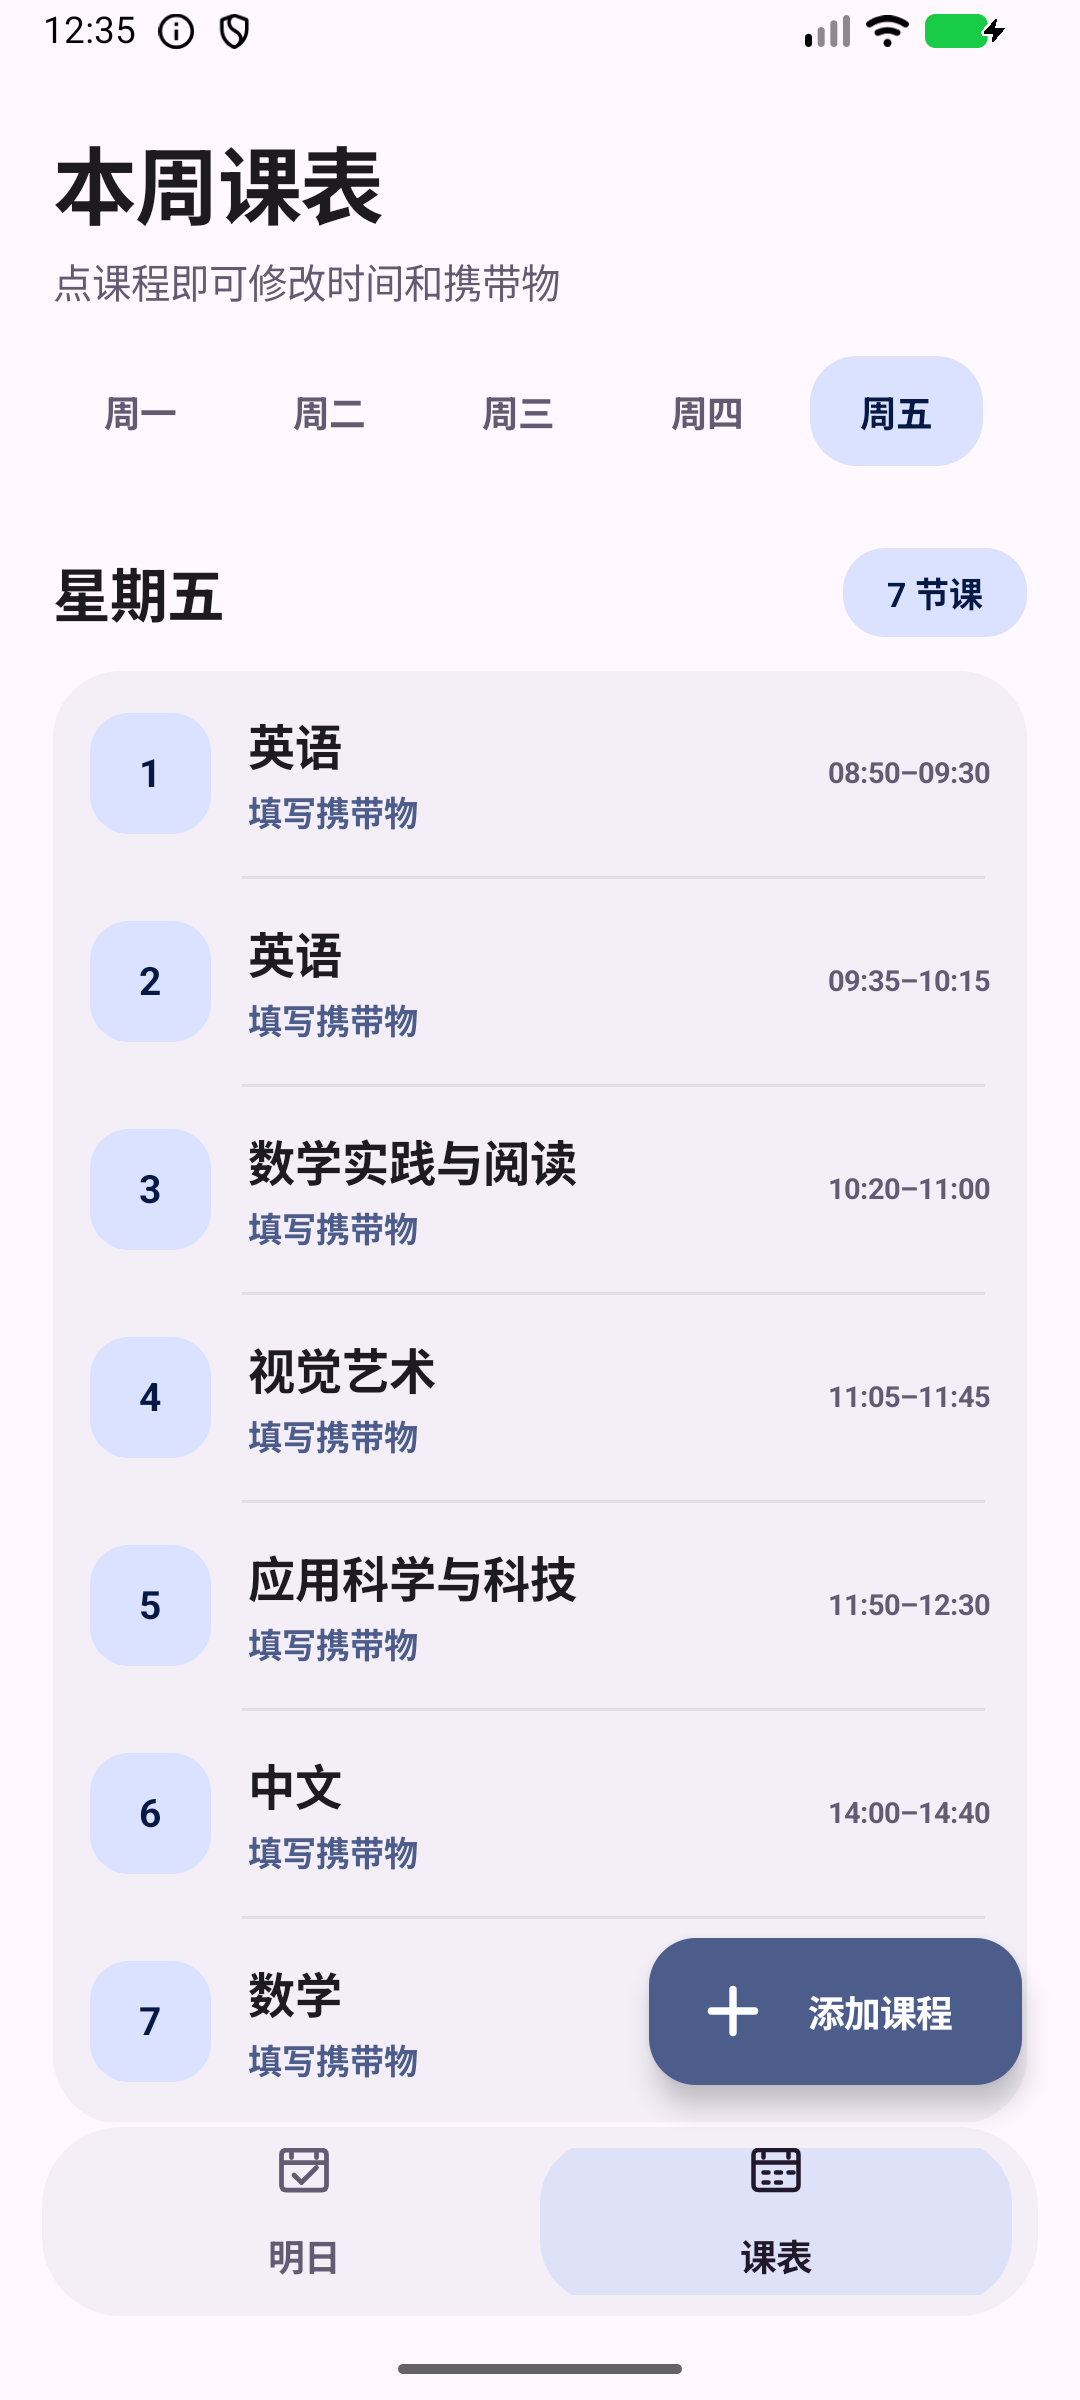
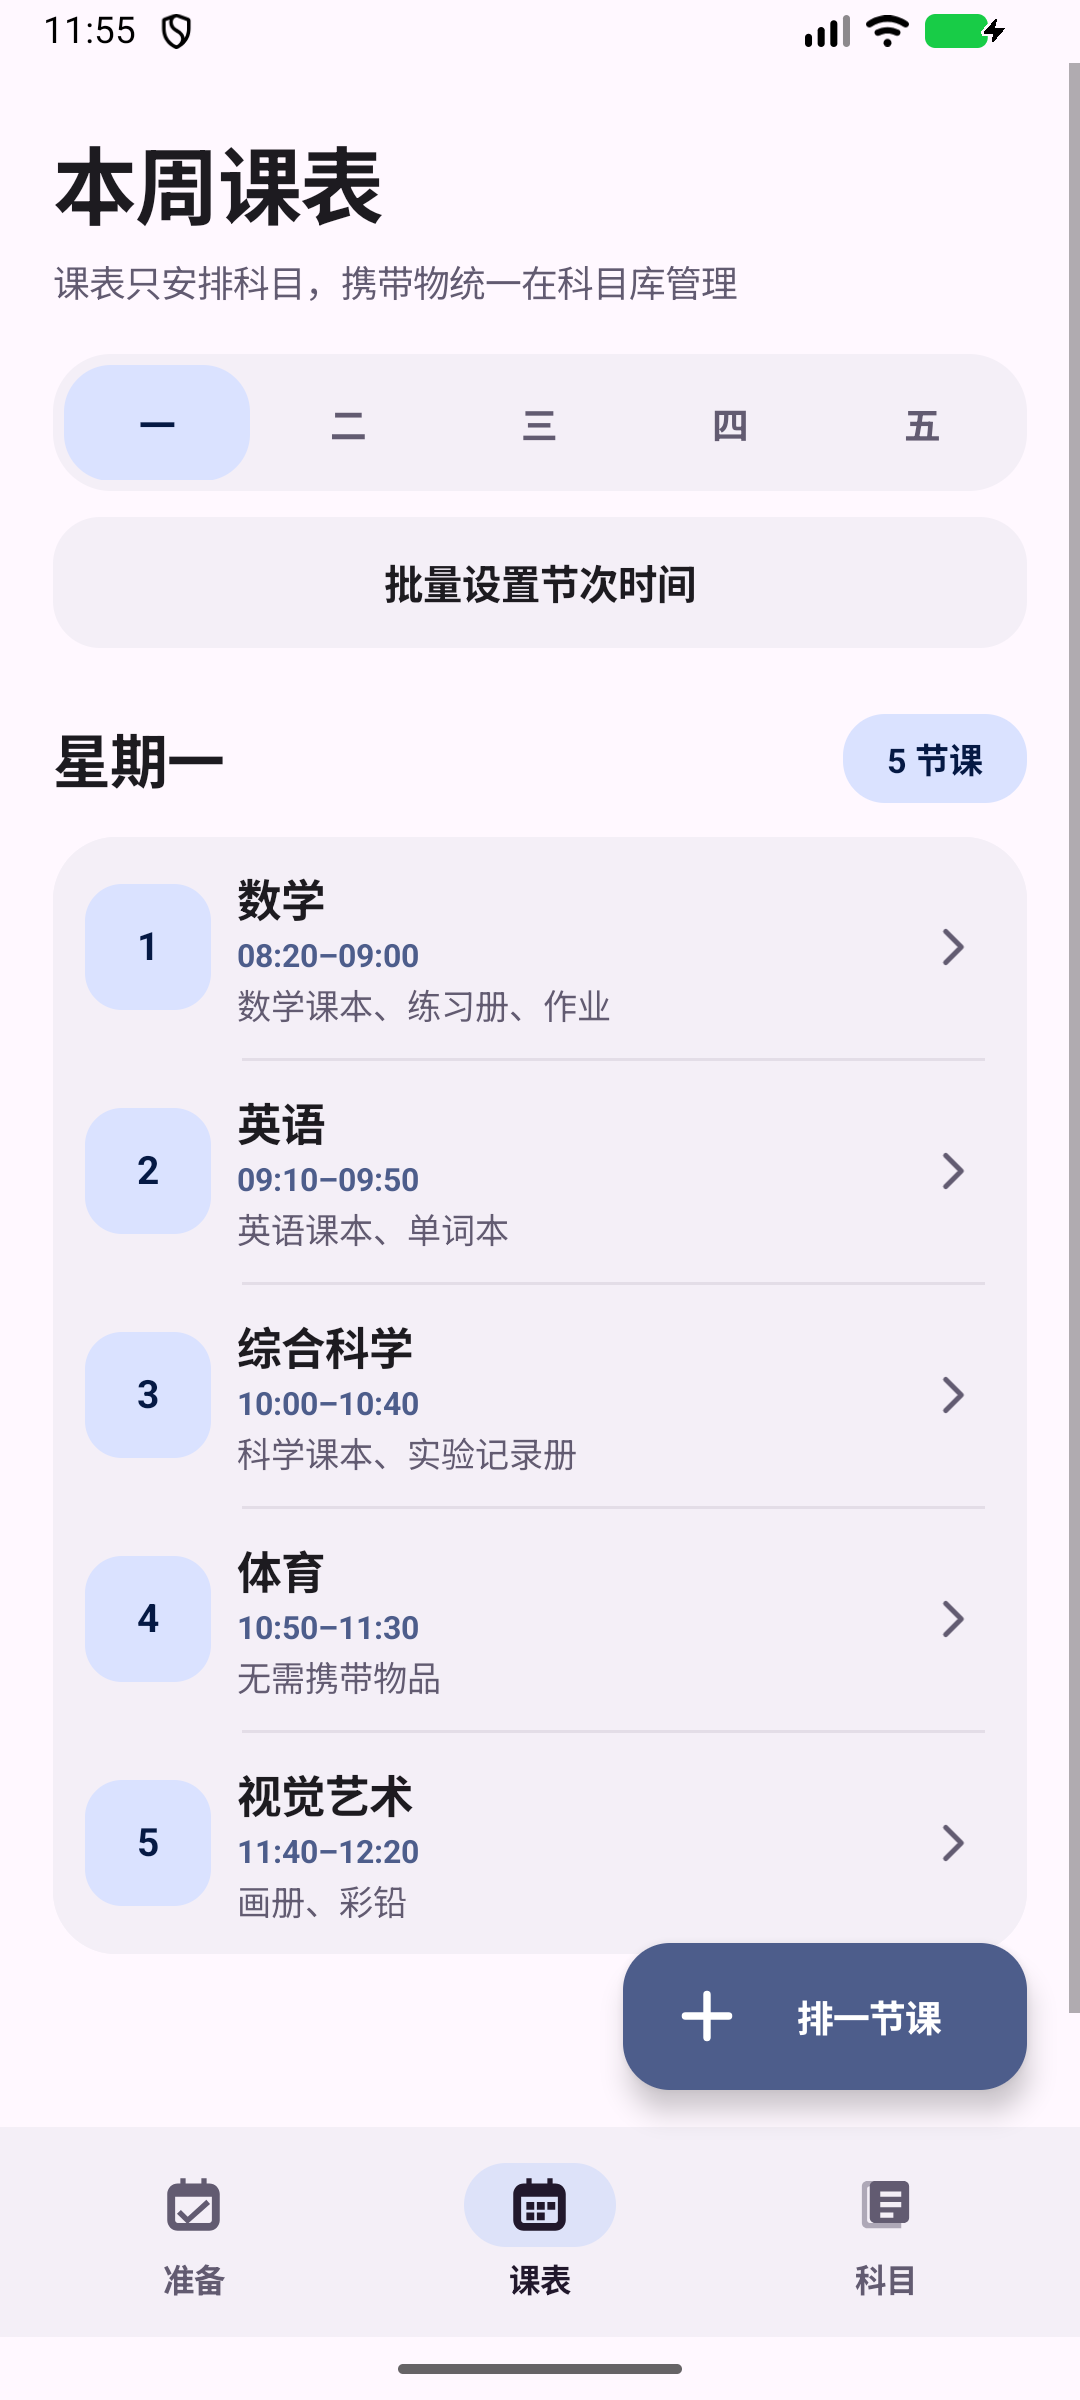
Refresh README screenshots for 2.3.0

diff --git a/README.md b/README.md
@@ -18,6 +18,8 @@
 
 ## 截图
 
+<p align="center"><sub>v2.3.0 Android 模拟器实机渲染，课程与携带物为演示数据。</sub></p>
+
 <p align="center">
   <img src="docs/images/home.png" width="30%" alt="书包准备清单" />
   <img src="docs/images/schedule.png" width="30%" alt="每周课程表" />
